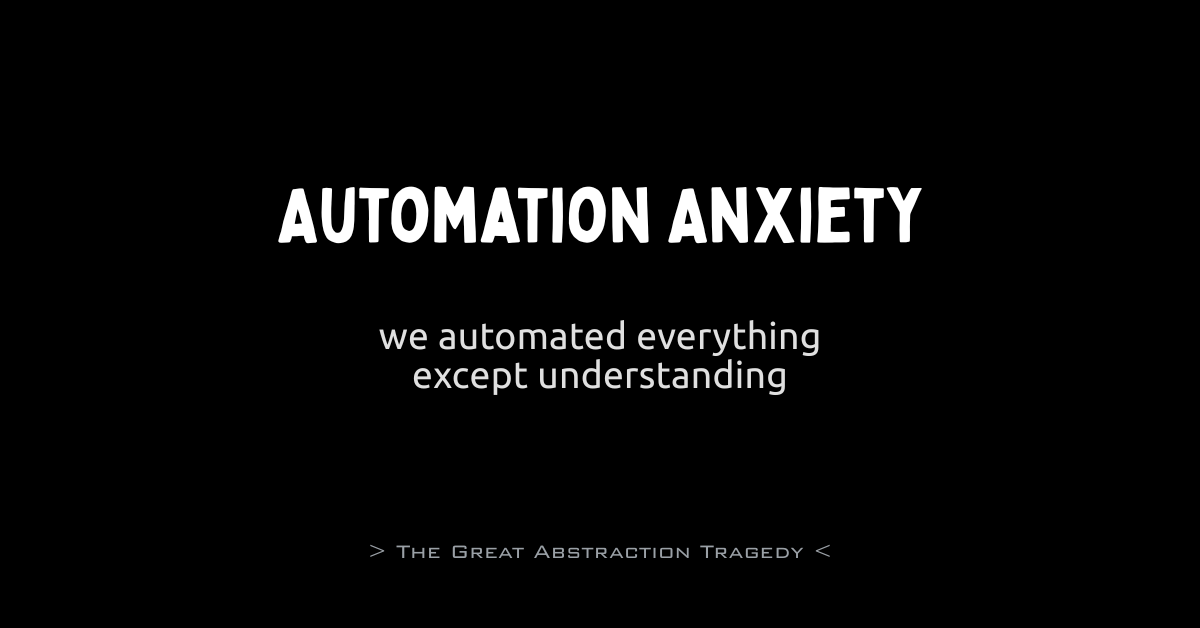
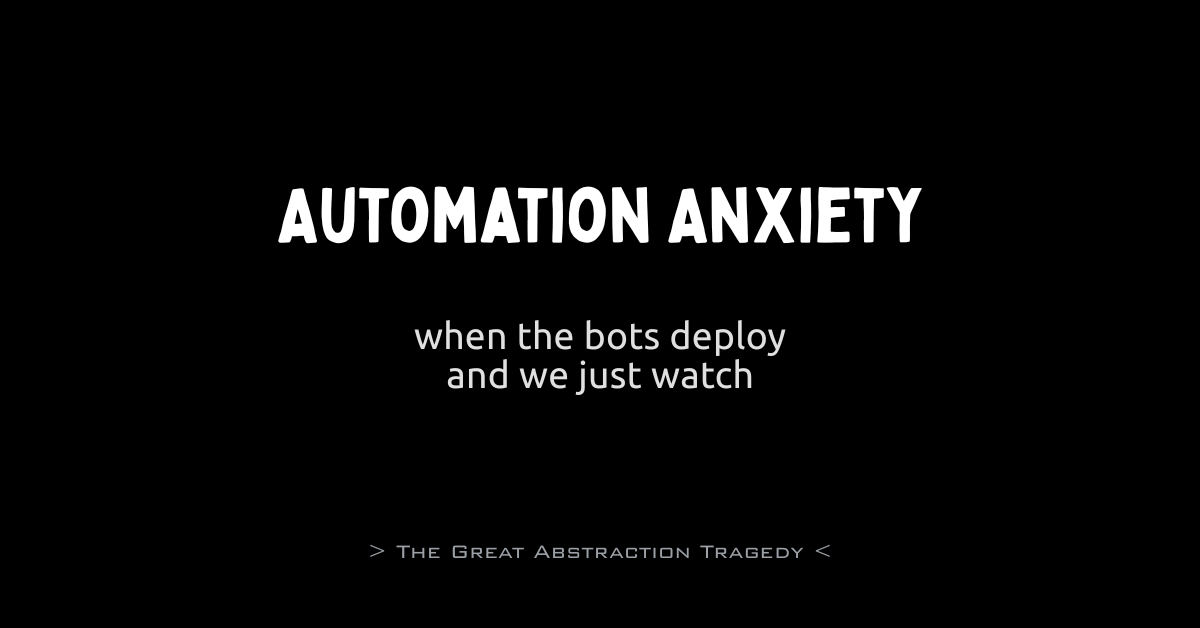
good

Changed region(s): [[0.3083, 0.5143, 0.6783, 0.6354]]

diff --git a/_posts/2025-10-30-automation-anxiety.md b/_posts/2025-10-30-automation-anxiety.md
@@ -6,8 +6,6 @@ categories: the-great-abstraction-tragedy
 
 ![Automation Anxiety](/res/automation-anxiety.png)
 
-## DevOps: We automated everything, except understanding
-
 ---
 
 **2010**:  
@@ -28,7 +26,6 @@ Slack celebrates a deployment nobody understands.
 
 The system works  
 until it doesn't.
-
 Then everyone watches dashboards  
 like medieval priests reading omens.
 
@@ -36,7 +33,8 @@ like medieval priests reading omens.
 
 We used to say _"automate the boring stuff"_.  
 Now the boring stuff runs forever,  
-and we're the ones waiting.
+and we're the ones waiting,
+watching, guessing.
 
 We have observability, alerting, orchestration, and chaos testing  
 but if you ask why something broke,  
@@ -48,10 +46,12 @@ the answer is usually:
 We didn't eliminate toil.  
 We just abstracted it.  
 Wrapped it in YAML.  
-And called it DevOps.
+Called it DevOps,
+and congratulated ourselves on moving faster.
 
-Somewhere, a junior engineer asks,
-> "So… what actually happens after I push?"  
+But somewhere, in every company,  
+a junior engineer asks:
+> "So... what actually happens after I push?"  
 > And the room goes quiet.
 
 #DevOps #Automation #SoftwareEngineering #TechHumor #Observability
